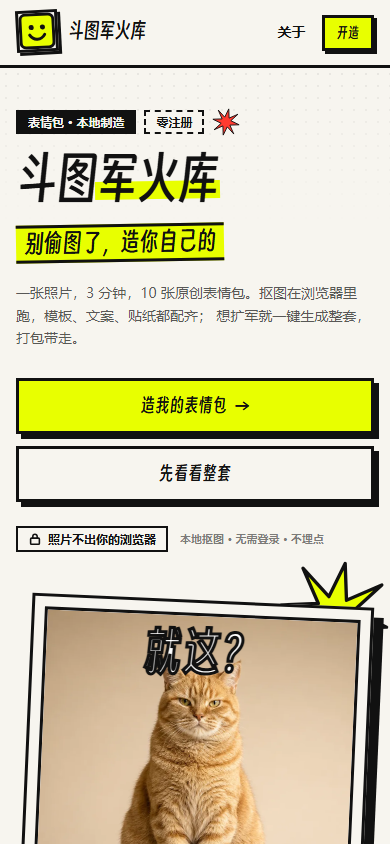
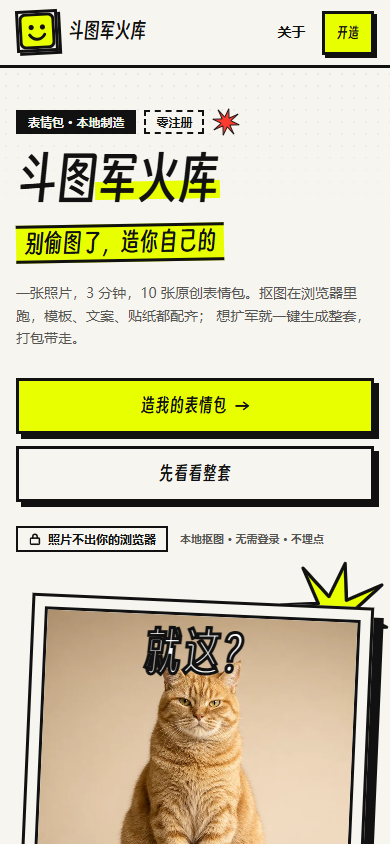
fix(home): cancel prefetch on leave, whitelist samples, contrast and touch fixes

diff --git a/apps/meme-factory/src/features/home/HomePage.tsx b/apps/meme-factory/src/features/home/HomePage.tsx
@@ -1,4 +1,4 @@
-import { useCallback, useEffect, useState } from 'react'
+import { useCallback, useEffect, useRef, useState } from 'react'
 import { useNavigate } from 'react-router-dom'
 
 import { Badge } from '@/components/Badge'
@@ -113,7 +113,7 @@ function HeroPreview() {
         />
       </div>
 
-      <span className="absolute -bottom-4 right-3 -rotate-3 border-[3px] border-ink bg-danger px-2.5 py-1 font-display text-sm font-bold leading-none text-paper shadow-[3px_3px_0_0_var(--color-ink)]">
+      <span className="absolute -bottom-4 right-3 -rotate-3 border-[3px] border-ink bg-danger px-2.5 py-1 font-display text-sm font-bold leading-none text-ink shadow-[3px_3px_0_0_var(--color-ink)]">
         零上传
       </span>
     </div>
@@ -126,9 +126,22 @@ export default function HomePage() {
   const [hasDraft, setHasDraft] = useState(false)
   const [pendingId, setPendingId] = useState<string | null>(null)
   const [sampleError, setSampleError] = useState<string | null>(null)
+  const pendingAbortRef = useRef<AbortController | null>(null)
+  const cancelledRef = useRef(false)
 
   const openAbout = useCallback(() => setAboutOpen(true), [])
   const closeAbout = useCallback(() => setAboutOpen(false), [])
+
+  // Abort an in-flight sample prefetch when the user leaves the page, so a late
+  // response can never pull them into /create after they picked another route.
+  useEffect(() => {
+    cancelledRef.current = false
+    return () => {
+      cancelledRef.current = true
+      pendingAbortRef.current?.abort()
+      pendingAbortRef.current = null
+    }
+  }, [])
 
   // The editor flushes its draft on unmount, so a quick round-trip can beat
   // IndexedDB. Re-check once after the write queue settles.
@@ -152,15 +165,26 @@ export default function HomePage() {
     setPendingId(sample.id)
     setSampleError(null)
     const handoff = toHandoff(sample)
+    const controller = new AbortController()
+    pendingAbortRef.current = controller
+    const isActive = () =>
+      !cancelledRef.current &&
+      pendingAbortRef.current === controller &&
+      !controller.signal.aborted
 
     try {
       // Prefetch into the HTTP cache; EditorPage re-fetches the same URL.
-      const response = await fetch(handoff.url)
+      const response = await fetch(handoff.url, { signal: controller.signal })
       if (!response.ok) throw new Error(`HTTP ${response.status}`)
       await response.arrayBuffer()
-      navigate('/create', { state: { sample: handoff } satisfies CreateRouteState })
+      // The user may have navigated away while the bytes were in flight.
+      if (!isActive()) return
+      pendingAbortRef.current = null
       setPendingId(null)
+      navigate('/create', { state: { sample: handoff } satisfies CreateRouteState })
     } catch {
+      if (!isActive()) return
+      pendingAbortRef.current = null
       setPendingId(null)
       setSampleError('示例图没加载出来，检查网络后再点一次，或者直接上传自己的照片。')
     }
@@ -227,7 +251,7 @@ export default function HomePage() {
                   <LockIcon />
                   照片不出你的浏览器
                 </Badge>
-                <span className="text-[11px] font-bold text-ink/55">
+                <span className="text-[11px] font-bold text-ink/70">
                   本地抠图 · 无需登录 · 不埋点
                 </span>
               </div>
@@ -280,7 +304,7 @@ export default function HomePage() {
                   点「拿这个玩玩」，示例照片会直接进入本地抠图流程。玩明白了，再换成你自己的照片。
                 </p>
               </div>
-              <p className="hidden border-b-2 border-ink pb-1 text-xs font-bold text-ink/55 sm:block">
+              <p className="hidden border-b-2 border-ink pb-1 text-xs font-bold text-ink/70 sm:block">
                 3 张 AI 生成样片 · 无版权顾虑
               </p>
             </div>
@@ -331,6 +355,7 @@ export default function HomePage() {
                       onClick={() => void playSample(sample)}
                       disabled={pendingId !== null}
                       aria-busy={pendingId === sample.id}
+                      aria-label={`拿这个玩玩：${sample.title}`}
                       className="mt-auto w-full justify-between px-4 py-3 text-base"
                     >
                       {pendingId === sample.id ? '正在装弹…' : '拿这个玩玩'}

diff --git a/apps/meme-factory/src/components/Layout.tsx b/apps/meme-factory/src/components/Layout.tsx
@@ -10,7 +10,7 @@ const navLink =
   'border-b-2 border-transparent px-2 py-1 text-sm font-bold text-ink underline-offset-4 hover:border-ink ' +
   focusRing
 
-const footerLink = `text-sm font-bold text-ink underline decoration-2 underline-offset-4 hover:bg-alert ${focusRing}`
+const footerLink = `inline-flex min-h-11 items-center text-sm font-bold text-ink underline decoration-2 underline-offset-4 hover:bg-alert sm:min-h-0 ${focusRing}`
 
 export interface LayoutProps {
   onAbout: () => void
@@ -21,6 +21,22 @@ export interface LayoutProps {
 export function Layout({ onAbout, children }: LayoutProps) {
   return (
     <div className="flex min-h-full flex-col overflow-x-clip bg-paper text-ink">
+      {/* Off-screen until keyboard focus; the click handler keeps the
+          HashRouter from treating `#main` as a route change. */}
+      <a
+        href="#main"
+        onClick={(event) => {
+          event.preventDefault()
+          const main = document.getElementById('main')
+          if (!main) return
+          main.focus({ preventScroll: true })
+          main.scrollIntoView()
+        }}
+        className={`fixed left-4 top-4 z-50 -translate-y-[200%] border-[3px] border-ink bg-alert px-4 py-3 font-display text-sm font-bold text-ink shadow-[4px_4px_0_0_var(--color-ink)] focus:translate-y-0 ${focusRing}`}
+      >
+        跳到主要内容
+      </a>
+
       <header className="sticky top-0 z-30 border-b-[3px] border-ink bg-paper">
         <div className="mx-auto flex w-full max-w-6xl items-center justify-between gap-3 px-4 py-2.5 sm:px-6">
           <Link to="/" aria-label="斗图军火库首页" className={`shrink-0 ${focusRing}`}>
@@ -38,13 +54,13 @@ export function Layout({ onAbout, children }: LayoutProps) {
               type="button"
               onClick={onAbout}
               aria-haspopup="dialog"
-              className={navLink}
+              className={`inline-flex min-h-11 items-center sm:min-h-0 ${navLink}`}
             >
               关于
             </button>
             <Link
               to="/create"
-              className={`ml-1 inline-flex items-center border-[3px] border-ink bg-alert px-3 py-2 font-display text-sm font-bold leading-none text-ink shadow-[3px_3px_0_0_var(--color-ink)] transition-transform hover:-translate-y-0.5 active:translate-y-0 active:shadow-none sm:text-base ${focusRing}`}
+              className={`ml-1 inline-flex min-h-11 items-center border-[3px] border-ink bg-alert px-3 py-2 font-display text-sm font-bold leading-none text-ink shadow-[3px_3px_0_0_var(--color-ink)] transition-transform hover:-translate-y-0.5 active:translate-y-0 active:shadow-none sm:text-base ${focusRing}`}
             >
               开造
             </Link>
@@ -52,7 +68,9 @@ export function Layout({ onAbout, children }: LayoutProps) {
         </div>
       </header>
 
-      <main className="flex-1">{children}</main>
+      <main id="main" tabIndex={-1} className="flex-1 scroll-mt-16 focus:outline-none">
+        {children}
+      </main>
 
       <footer className="border-t-[3px] border-ink bg-paper">
         <div className="mx-auto grid w-full max-w-6xl gap-8 px-4 py-10 sm:px-6 md:grid-cols-[1.4fr_1fr_1.1fr]">

diff --git a/apps/meme-factory/tests/samples.test.ts b/apps/meme-factory/tests/samples.test.ts
@@ -1,0 +1,73 @@
+import { SAMPLES, parseSampleHandoff, toHandoff } from '@/features/home/samples'
+
+const sampleHref = (path: string) => new URL(path, document.baseURI).href
+const valid = toHandoff(SAMPLES[0]!)
+
+describe('parseSampleHandoff', () => {
+  test.each(SAMPLES)('round-trips the $file handoff', (sample) => {
+    const handoff = toHandoff(sample)
+    expect(parseSampleHandoff({ sample: handoff })).toEqual(handoff)
+  })
+
+  test('accepts a relative reference to a known sample and normalises it', () => {
+    const parsed = parseSampleHandoff({
+      sample: { id: valid.id, title: valid.title, url: 'samples/cat.webp' },
+    })
+    expect(parsed?.url).toBe(sampleHref('samples/cat.webp'))
+  })
+
+  test.each([
+    ['null state', null],
+    ['undefined state', undefined],
+    ['string state', 'samples/cat.webp'],
+    ['number state', 42],
+    ['array state', []],
+    ['empty object', {}],
+    ['null sample', { sample: null }],
+    ['string sample', { sample: 'cat' }],
+    ['array sample', { sample: [] }],
+    ['missing url', { sample: { id: valid.id, title: valid.title } }],
+    ['numeric id', { sample: { ...valid, id: 7 } }],
+    ['null title', { sample: { ...valid, title: null } }],
+    ['numeric url', { sample: { ...valid, url: 3 } }],
+    ['empty id', { sample: { ...valid, id: '' } }],
+    ['empty title', { sample: { ...valid, title: '' } }],
+  ])('rejects malformed state: %s', (_name, state) => {
+    expect(parseSampleHandoff(state)).toBeNull()
+  })
+
+  test.each([
+    ['foreign origin', 'https://evil.example/samples/cat.webp'],
+    ['protocol-relative foreign origin', '//evil.example/samples/cat.webp'],
+    ['credentials trick', 'http://localhost:3000@evil.example/samples/cat.webp'],
+  ])('rejects foreign URL: %s', (_name, url) => {
+    expect(parseSampleHandoff({ sample: { ...valid, url } })).toBeNull()
+  })
+
+  test.each([
+    ['relative traversal', 'samples/../models/u2netp.onnx'],
+    ['normalised traversal', sampleHref('samples/../models/u2netp.onnx')],
+    ['encoded traversal', `${sampleHref('samples/')}%2e%2e/models/u2netp.onnx`],
+    ['encoded double traversal', `${sampleHref('samples/')}%2e%2e/%2e%2e/etc/passwd`],
+  ])('rejects traversal outside the samples directory: %s', (_name, url) => {
+    expect(parseSampleHandoff({ sample: { ...valid, url } })).toBeNull()
+  })
+
+  test.each([
+    ['unknown file', 'samples/evil.webp'],
+    ['wrong extension', 'samples/student.png'],
+    ['suffixed file', 'samples/student.webp.bak'],
+    ['nested path', 'samples/sub/student.webp'],
+    ['directory only', 'samples/'],
+    ['escaped sibling', 'samples-backup/cat.webp'],
+  ])('rejects a URL that is not a whitelisted sample file: %s', (_name, path) => {
+    expect(parseSampleHandoff({ sample: { ...valid, url: sampleHref(path) } })).toBeNull()
+  })
+
+  test.each([
+    ['query string', `${sampleHref('samples/cat.webp')}?v=1`],
+    ['hash fragment', `${sampleHref('samples/cat.webp')}#top`],
+  ])('rejects non-canonical URL decorations: %s', (_name, url) => {
+    expect(parseSampleHandoff({ sample: { ...valid, url } })).toBeNull()
+  })
+})

diff --git a/apps/meme-factory/src/features/home/samples.ts b/apps/meme-factory/src/features/home/samples.ts
@@ -61,22 +61,44 @@ export function toHandoff(sample: SampleDef): SampleHandoff {
   return { id: sample.id, title: sample.title, url: sampleUrl(sample.file) }
 }
 
+const SAMPLE_FILES = new Set(SAMPLES.map((sample) => sample.file))
+
+function isRecord(value: unknown): value is Record<string, unknown> {
+  return typeof value === 'object' && value !== null && !Array.isArray(value)
+}
+
 /**
  * Validates router state defensively: history state can be user-edited, so
- * only accept a URL inside this build's own samples directory.
+ * only accept a normalised same-origin URL that resolves to a whitelisted
+ * sample file inside this build's own samples directory.
  */
 export function parseSampleHandoff(state: unknown): SampleHandoff | null {
-  if (!state || typeof state !== 'object') return null
-  const candidate = (state as { sample?: unknown }).sample
-  if (!candidate || typeof candidate !== 'object') return null
+  if (!isRecord(state) || !isRecord(state.sample)) return null
 
-  const { id, title, url } = candidate as Record<string, unknown>
-  if (typeof id !== 'string' || typeof title !== 'string' || typeof url !== 'string') {
+  const { id, title, url } = state.sample
+  if (typeof id !== 'string' || id === '') return null
+  if (typeof title !== 'string' || title === '') return null
+  if (typeof url !== 'string') return null
+
+  let parsed: URL
+  try {
+    parsed = new URL(url, document.baseURI)
+  } catch {
     return null
   }
 
-  const samplesBase = new URL('samples/', document.baseURI).href
-  if (!url.startsWith(samplesBase)) return null
+  const samplesBase = new URL('samples/', document.baseURI)
+  if (parsed.origin !== samplesBase.origin) return null
 
-  return { id, title, url }
+  // The handoff contract always emits a bare file URL; query/hash variants are
+  // not produced by this app and should not be trusted.
+  if (parsed.search !== '' || parsed.hash !== '') return null
+
+  // URL parsing collapses `.`/`..` segments, so traversal cannot sneak past
+  // the whitelist below (`samples/%2e%2e/models/...` becomes `/models/...`).
+  if (!parsed.pathname.startsWith(samplesBase.pathname)) return null
+  const file = parsed.pathname.slice(samplesBase.pathname.length)
+  if (!SAMPLE_FILES.has(file)) return null
+
+  return { id, title, url: parsed.href }
 }

diff --git a/apps/meme-factory/tests/home.test.tsx b/apps/meme-factory/tests/home.test.tsx
@@ -1,0 +1,26 @@
+import { render, screen } from '@testing-library/react'
+
+import App from '@/App'
+import { SAMPLES } from '@/features/home/samples'
+
+describe('home page', () => {
+  test('sample actions expose distinct accessible names', () => {
+    render(<App />)
+
+    const labels = SAMPLES.map(
+      (sample) =>
+        screen.getByRole('button', { name: `拿这个玩玩：${sample.title}` }).getAttribute('aria-label'),
+    )
+
+    expect(new Set(labels).size).toBe(SAMPLES.length)
+    expect(labels.every((label) => label?.startsWith('拿这个玩玩：'))).toBe(true)
+  })
+
+  test('skip link targets the main landmark', () => {
+    render(<App />)
+
+    const skipLink = screen.getByRole('link', { name: '跳到主要内容' })
+    expect(skipLink).toHaveAttribute('href', '#main')
+    expect(screen.getByRole('main')).toHaveAttribute('id', 'main')
+  })
+})

diff --git a/apps/meme-factory/src/features/about/AboutModal.tsx b/apps/meme-factory/src/features/about/AboutModal.tsx
@@ -88,7 +88,7 @@ export function AboutModal({ open, onClose }: AboutModalProps) {
           </ul>
         </section>
 
-        <p className="border-t-2 border-ink pt-4 text-xs font-bold text-ink/55">
+        <p className="border-t-2 border-ink pt-4 text-xs font-bold text-ink/65">
           2026 Qoder 高校创造力大赛 · LifeHack 赛道参赛作品 · 无账号 · 无上传 · 无水印
         </p>
       </div>
